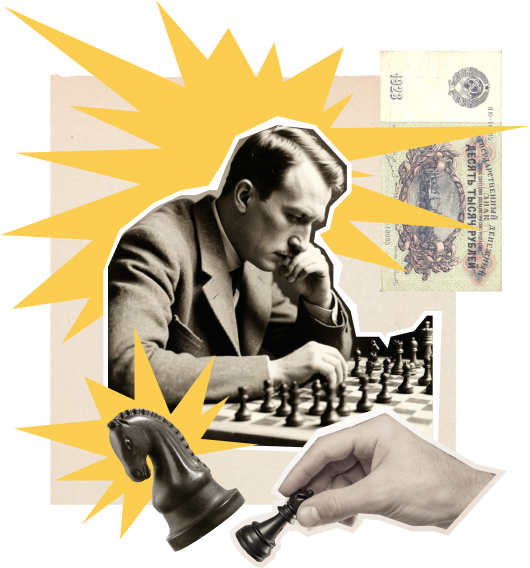
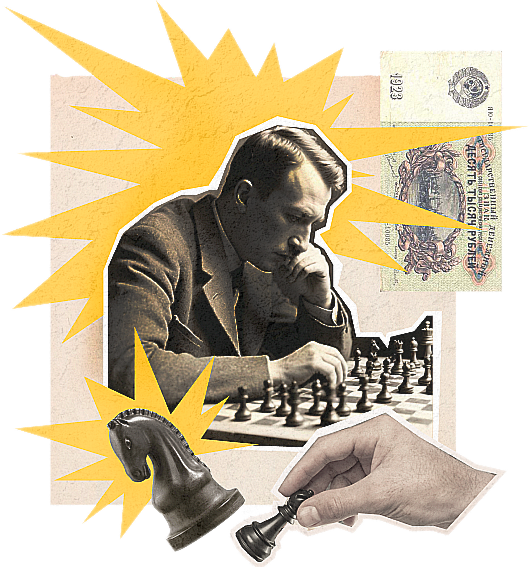
margins

diff --git a/style.css b/style.css
@@ -33,6 +33,7 @@ body {
 .header, .block-offer {
     background-color: #E9DED4;
     background-blend-mode: overlay;
+    overflow: hidden;
     background-image: url(img/background.png);
 }
 .offer-text-1, .offer-text-2, .offer-text-3 {
@@ -385,7 +386,8 @@ body {
     opacity: 0.6;
 }
 .block-participants-tournament, .block-participants-tournament-phone {
-    margin-bottom: 50px;
+    margin-bottom: 140px;
+    margin-top: 140px;
 }
 .footer {
     background-color: #E9DED4;
@@ -604,6 +606,7 @@ body {
         padding-top: 70px;
         margin-top: -75px;
         margin-top: -75px;
+        background-image: url(img/background2.png);
     }
     .carousel-first-line, .carousel-second-line {
         display: flex;
@@ -700,12 +703,21 @@ body {
         opacity: 0.6;
     }
     .footer {
-        padding: 20px 44px 63px 44px;
+        padding: 40px 44px 63px 44px;
     }
     .footer-text {
         font-size: 16px;
     }
     .block-participants-tournament {
         display: none;
+    }
+    .information-about-session-text {
+        margin-top: -30px;
+    }
+    .block-stages-phone {
+        margin-top: 112px;
+    }
+    .block-participants-tournament-phone {
+        margin-bottom: 88px;
     }
 }
